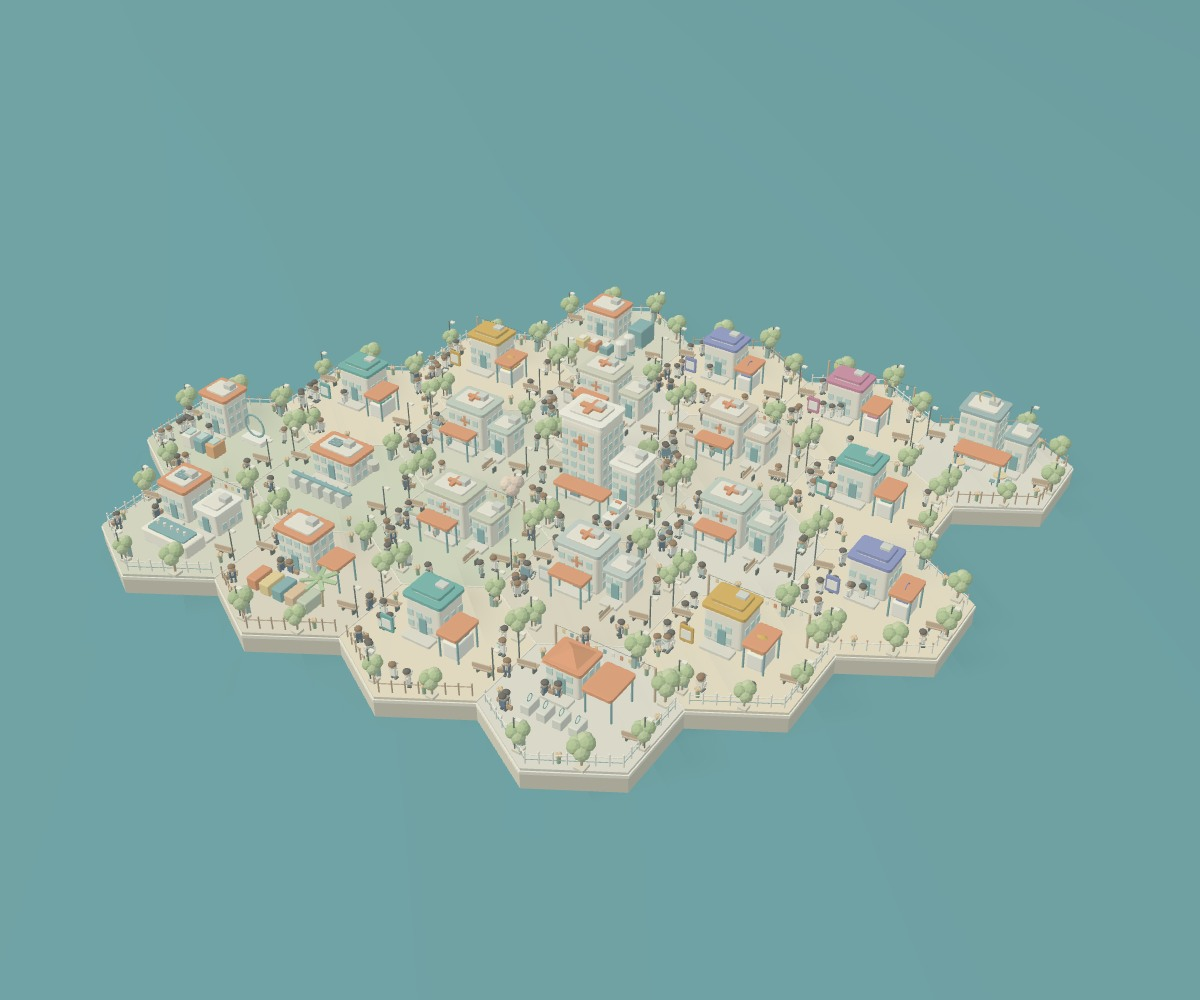
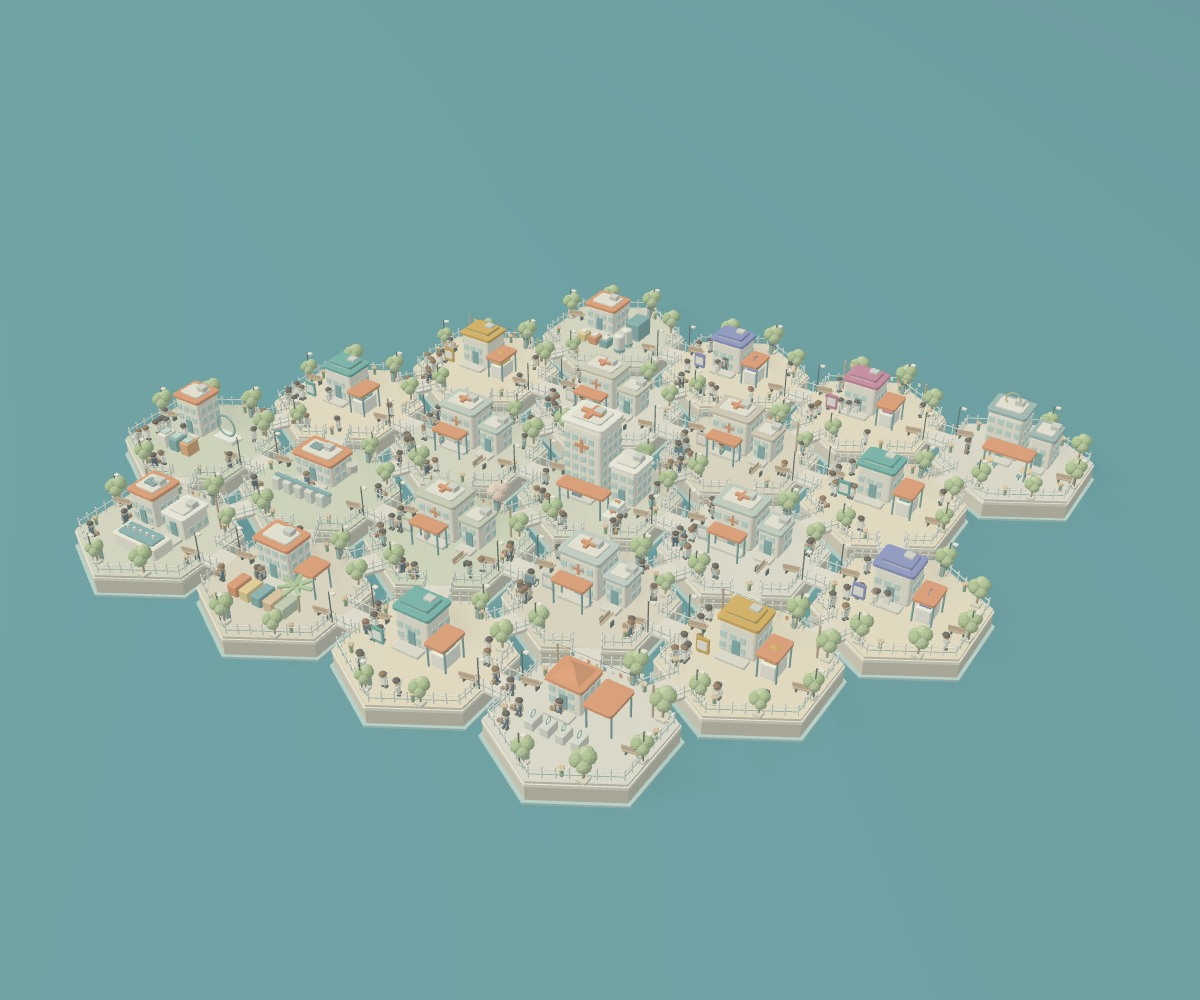
Separate honeycomb districts with narrow canals and short pedestrian crossings

Changed region(s): [[0.0617, 0.279, 0.925, 0.806]]

diff --git a/island.html b/island.html
@@ -114,9 +114,9 @@ function detailBody(t){if(t.type==='dept'){
  if(t.id==='hospital')return `<h3 class="results-heading">一次療程</h3><div id="journeyContent">${journeyHTML()}</div>${kmSettings()}`;
  const resources=C.supplies.filter(r=>r.tile===t.id);return (resources.length?`<h3 class="results-heading">技術需要的外部資源＊</h3>${resourceCards(resources)}`:'')+(['materials','components','equipment'].includes(t.id)?`<h3 class="results-heading">相關廠商與資料夾＊</h3><div data-vendors="${t.id}">${vendorHTML(t.id)}</div><p class="content-note">＊依關鍵字推定，非合作紀錄。</p>`:'')+kmSettings();
 }
-function showList(){window.medtechScene?.home();window.previewMarker?.select(-1);$('#personCard')?.remove();selected=null;window.syncPreviewRelations?.();resetHighlights();target.x=0;target.z=0;target.zoom=1;querySeq++;recordSeq++;$('#sceneTitle').textContent='沿著產品，走進醫材的風景。';$('#sideContent').innerHTML=`<h2>把需求，連起來。</h2><p class="side-lead">一座蜂窩醫材島：中央醫院、六個科別、八個技術分區與供應服務。點科別看產品，開啟「關聯」看對應。</p><div class="searchwrap"><input id="listSearch" type="search" placeholder="搜尋產品、技術、關鍵字…" aria-label="搜尋地塊" value="${esc(listQuery)}"></div><div class="filtertabs"><button data-filter="all">全部</button><button data-filter="dept">科別</button><button data-filter="tech">技術分區</button><button data-filter="supplier">供應服務</button><button data-filter="market">醫院與客戶</button></div><div class="tile-list" id="tileList"></div><div class="side-foot"><span class="live-dot"></span>商情資料來自歐噴資料庫。<br>蜂窩分區供內容導覽，相鄰不代表合作。產品與技術對應請看「關聯」；＊為推定或待確認。</div>`;renderList();$('#listSearch').addEventListener('input',e=>{listQuery=e.target.value;renderList()})}
+function showList(){window.medtechScene?.home();window.previewMarker?.select(-1);$('#personCard')?.remove();selected=null;window.syncPreviewRelations?.();resetHighlights();target.x=0;target.z=0;target.zoom=1;querySeq++;recordSeq++;$('#sceneTitle').textContent='沿著產品，走進醫材的風景。';$('#sideContent').innerHTML=`<h2>把需求，連起來。</h2><p class="side-lead">以蜂窩排列的醫材分區，地塊間保留窄水道與短橋。中央醫院、六個科別，連結技術與供應服務。點科別看產品，開啟「關聯」看對應。</p><div class="searchwrap"><input id="listSearch" type="search" placeholder="搜尋產品、技術、關鍵字…" aria-label="搜尋地塊" value="${esc(listQuery)}"></div><div class="filtertabs"><button data-filter="all">全部</button><button data-filter="dept">科別</button><button data-filter="tech">技術分區</button><button data-filter="supplier">供應服務</button><button data-filter="market">醫院與客戶</button></div><div class="tile-list" id="tileList"></div><div class="side-foot"><span class="live-dot"></span>商情資料來自歐噴資料庫。<br>蜂窩分區供內容導覽，相鄰不代表合作。產品與技術對應請看「關聯」；＊為推定或待確認。</div>`;renderList();$('#listSearch').addEventListener('input',e=>{listQuery=e.target.value;renderList()})}
 function renderList(){const q=listQuery.trim().toLowerCase(),hits=C.products.filter(p=>p.name.toLowerCase().includes(q)),list=tiles.filter(t=>(filter==='all'||t.type===filter)&&((t.name+t.en+t.tags.join('')).toLowerCase().includes(q)||hits.some(p=>p.dept===t.id)));$('#tileList').innerHTML=list.length?list.map(t=>`<button class="tile-item" data-tile="${t.i}"><span class="tile-icon" style="background:${t.color}">${t.icon}</span><span><span class="title">${t.name}</span><span class="subtitle">${t.en}</span>${q&&hits.some(p=>p.dept===t.id)?`<small class="search-match">含：${hits.filter(p=>p.dept===t.id).map(p=>esc(p.name)).join('、')}</small>`:''}</span><span class="arrow">↗</span></button>`).join(''):'<p class="empty">沒有相符的方向，請換個關鍵字。</p>';document.querySelectorAll('[data-filter]').forEach(b=>b.classList.toggle('active',b.dataset.filter===filter))}
-function choose(i){if(!tiles[i])return;resetHighlights();$('#personCard')?.remove();window.previewMarker?.select(i);selected=tiles[i];window.syncPreviewRelations?.();window.medtechScene?.focus(i);target.x=selected.x;target.z=selected.z;target.zoom=1.32;$('#sceneTitle').textContent=selected.name+' · '+selected.tags.join('／');$('#sideContent').innerHTML=`<button class="back" id="backList">← 回到探索清單</button><div class="detail-top"><div class="thumb-wrap"><img id="detailThumb" src="town-preview.jpg?v=8" alt="${selected.name}島嶼場景"><span>${selected.icon}</span></div><div><p class="detail-num">${String(i+1).padStart(2,'0')} / ${selected.en}</p><h2>${selected.name}</h2></div></div><p class="side-lead">${esc(selected.description)}</p><div class="tags">${selected.tags.map(t=>`<span>${esc(t)}</span>`).join('')}</div>${detailBody(selected)}<section class="public-query"><h3 class="results-heading">歐噴資料庫查詢</h3><form class="query-form" id="queryForm"><input id="query" aria-label="歐噴關鍵字" value="${selected.query}" required><button class="primary">搜尋 ↗</button></form>${authHTML()}<div id="queryResults"><p class="status">正在搜尋公開索引…</p></div><div id="records"></div><p class="source-note">來源：<a href="https://data.openfun.tw/" target="_blank" rel="noopener noreferrer">歐噴資料庫</a>。索引條目不等同採購需求，請核對原始來源。</p></section>`;$('#sidebar').scrollTop=0;document.body.classList.add('panel-open');runQuery(selected.query)}
+function choose(i){if(!tiles[i])return;resetHighlights();$('#personCard')?.remove();window.previewMarker?.select(i);selected=tiles[i];window.syncPreviewRelations?.();window.medtechScene?.focus(i);target.x=selected.x;target.z=selected.z;target.zoom=1.32;$('#sceneTitle').textContent=selected.name+' · '+selected.tags.join('／');$('#sideContent').innerHTML=`<button class="back" id="backList">← 回到探索清單</button><div class="detail-top"><div class="thumb-wrap"><img id="detailThumb" src="town-preview.jpg?v=9" alt="${selected.name}島嶼場景"><span>${selected.icon}</span></div><div><p class="detail-num">${String(i+1).padStart(2,'0')} / ${selected.en}</p><h2>${selected.name}</h2></div></div><p class="side-lead">${esc(selected.description)}</p><div class="tags">${selected.tags.map(t=>`<span>${esc(t)}</span>`).join('')}</div>${detailBody(selected)}<section class="public-query"><h3 class="results-heading">歐噴資料庫查詢</h3><form class="query-form" id="queryForm"><input id="query" aria-label="歐噴關鍵字" value="${selected.query}" required><button class="primary">搜尋 ↗</button></form>${authHTML()}<div id="queryResults"><p class="status">正在搜尋公開索引…</p></div><div id="records"></div><p class="source-note">來源：<a href="https://data.openfun.tw/" target="_blank" rel="noopener noreferrer">歐噴資料庫</a>。索引條目不等同採購需求，請核對原始來源。</p></section>`;$('#sidebar').scrollTop=0;document.body.classList.add('panel-open');runQuery(selected.query)}
 function goProduct(id){const p=C.products.find(p=>p.id===id);if(!p)return;choose(tileById(p.dept).i);const el=$('#product-'+id);if(!el)return;el.classList.add('product-highlight');el.scrollIntoView({block:'start',behavior:paused?'auto':'smooth'});setTimeout(()=>el.classList.remove('product-highlight'),2400)}
 function showTechMap(){querySeq++;recordSeq++;selected=null;$('#personCard')?.remove();window.medtechScene?.home();window.previewMarker?.select(-1);resetHighlights();const ordered=['surface','structure','forming','process'].flatMap(f=>C.techs.filter(t=>t.family===f));$('#sceneTitle').textContent='從產品應用，走向技術與共用能力。';$('#sideContent').innerHTML=`<button class="back" id="backList">← 回到探索清單</button><h2>技術地圖</h2><p class="side-lead">八座技術分區，十二項共用能力。點能力欄頭，查看共用能力的技術分區。</p><div class="matrix-scroll" tabindex="0" role="region" aria-label="技術與共用能力矩陣，可左右滑動"><table class="cap-matrix"><caption>技術 × 共用能力</caption><thead><tr><th scope="col">技術分區</th>${C.capabilities.map(c=>`<th scope="col"><button data-capability="${c.id}" aria-pressed="false">${esc(c.name)}</button></th>`).join('')}</tr></thead><tbody>${ordered.map((t,i)=>{const f=C.families[t.family],newFamily=i===0||ordered[i-1].family!==t.family;return `${newFamily?`<tr class="family-row"><th colspan="${C.capabilities.length+1}" style="color:${f.color}">${f.name}</th></tr>`:''}<tr><th scope="row"><button data-tech="${t.id}">${esc(tileById(t.id).name)}</button></th>${C.capabilities.map(c=>`<td class="${c.techs.includes(t.id)?'has-cap':''}">${c.techs.includes(t.id)?`<span style="background:${f.color}" role="img" aria-label="使用${esc(c.name)}"></span>`:'<span class="sr-only">未共用</span>'}</td>`).join('')}</tr>`}).join('')}</tbody></table></div><p class="content-note">＊分區為本站整理。圓點表示能力項目有對應關鍵字，不代表完成度。</p><p id="capStatus" class="status" role="status">選擇能力可標亮島名。</p><h3 class="results-heading">最常共用的能力</h3><div class="common-capabilities">${[...C.capabilities].sort((a,b)=>b.techs.length-a.techs.length).slice(0,5).map(c=>`<button class="person-item" data-capability="${c.id}"><strong>${esc(c.name)}</strong><small>共用 ×${c.techs.length}</small></button>`).join('')}</div>${kmSettings()}<button class="primary copy-state" id="copyState">複製目前狀態</button><p class="content-note">複製技術名稱、紀錄數與紀錄標題；未連線時不填入紀錄數。</p><textarea id="copyFallback" class="copy-fallback" aria-label="目前狀態文字" hidden readonly></textarea>`;$('#sidebar').scrollTop=0;document.body.classList.add('panel-open')}
 
@@ -155,11 +155,11 @@ window.showPersonInfo=p=>{let card=$('#personCard');if(!card){card=document.crea
 window.updatePersonInfo=p=>{if($('#personCard')?.dataset.person===String(p.id)){$('#personTask').textContent=p.task;$('#personCard > small').textContent=p.island}};
 document.addEventListener('click',e=>{const b=e.target.closest('[data-person]');if(b)window.medtechScene?.selectPerson(+b.dataset.person,b.dataset.personView);if(e.target.id==='closePerson'){$('#personCard')?.remove();window.medtechScene?.clearPerson()}});
 window.syncPreviewRelations=()=>{const svg=$('#previewRelations'),anchors=window.previewRelationAnchors;if(!svg||!anchors)return;const related=window.MEDTECH_RELATIONS.filter(r=>selected?(r.a===selected.i||r.b===selected.i):r.kind==='application');svg.style.display=showLinks?'':'none';svg.innerHTML=related.map(r=>{const a=anchors[r.a],b=anchors[r.b],lift=Math.min(95,25+Math.hypot(a.x-b.x,a.y-b.y)*.15);return `<path d="M ${a.x},${a.y} Q ${(a.x+b.x)/2},${(a.y+b.y)/2-lift} ${b.x},${b.y}" fill="none" stroke="${r.inferred?'#b76d44':'#316f77'}" stroke-width="2.3" ${r.inferred?'stroke-dasharray="6 5"':''}/>`}).join('')};
-window.showIslandPreview=note=>{window.previewLabelCleanup?.();const stage=$('#island');stage.innerHTML='<img class="scene-fallback" src="town-preview.jpg?v=8" alt="醫院科別、技術與供應服務蜂窩分區預覽"><p class="webgl-note"></p>';stage.querySelector('.webgl-note').textContent=note;const relations=document.createElementNS('http://www.w3.org/2000/svg','svg');relations.id='previewRelations';relations.classList.add('relation-overlay');stage.appendChild(relations);const marker=window.MedtechLabels.create(stage,tiles);window.previewMarker=marker;applyLabelState();marker.root.style.display=showLabels?'':'none';const image=stage.querySelector('img');const update=()=>{const r=stage.getBoundingClientRect(),iw=1200,ih=1000,k=Math.min(r.width/iw,r.height/ih),ox=(r.width-iw*k)/2,oy=(r.height-ih*k)/2;const anchors=window.MEDTECH_PREVIEW_POINTS.map(([u,v])=>({x:ox+u*iw*k,y:oy+v*ih*k}));marker.update(anchors,r.width,r.height);window.previewRelationAnchors=anchors;relations.setAttribute('viewBox',`0 0 ${r.width} ${r.height}`);window.syncPreviewRelations?.()};image.onload=update;const observer=new ResizeObserver(update);observer.observe(stage);update();window.previewLabelCleanup=()=>{observer.disconnect();marker.destroy();window.previewMarker=null}};
-window.MEDTECH_PREVIEW_POINTS=[[0.5,0.485936],[0.611241,0.536489],[0.49234,0.581802],[0.382338,0.527284],[0.398119,0.439637],[0.506523,0.404294],[0.609439,0.447478],[0.281923,0.477519],[0.512145,0.333929],[0.483219,0.695962],[0.255489,0.571861],[0.189896,0.43191],[0.157066,0.518225],[0.823926,0.455437],[0.721465,0.494484],[0.711487,0.411617],[0.607895,0.371245],[0.733195,0.59191],[0.613374,0.641786],[0.363695,0.630828],[0.304463,0.397076],[0.41165,0.364485]];
+window.showIslandPreview=note=>{window.previewLabelCleanup?.();const stage=$('#island');stage.innerHTML='<img class="scene-fallback" src="town-preview.jpg?v=9" alt="醫院科別、技術與供應服務蜂窩分區預覽"><p class="webgl-note"></p>';stage.querySelector('.webgl-note').textContent=note;const relations=document.createElementNS('http://www.w3.org/2000/svg','svg');relations.id='previewRelations';relations.classList.add('relation-overlay');stage.appendChild(relations);const marker=window.MedtechLabels.create(stage,tiles);window.previewMarker=marker;applyLabelState();marker.root.style.display=showLabels?'':'none';const image=stage.querySelector('img');const update=()=>{const r=stage.getBoundingClientRect(),iw=1200,ih=1000,k=Math.min(r.width/iw,r.height/ih),ox=(r.width-iw*k)/2,oy=(r.height-ih*k)/2;const anchors=window.MEDTECH_PREVIEW_POINTS.map(([u,v])=>({x:ox+u*iw*k,y:oy+v*ih*k}));marker.update(anchors,r.width,r.height);window.previewRelationAnchors=anchors;relations.setAttribute('viewBox',`0 0 ${r.width} ${r.height}`);window.syncPreviewRelations?.()};image.onload=update;const observer=new ResizeObserver(update);observer.observe(stage);update();window.previewLabelCleanup=()=>{observer.disconnect();marker.destroy();window.previewMarker=null}};
+window.MEDTECH_PREVIEW_POINTS=[[0.5,0.486652],[0.620302,0.539519],[0.492878,0.588558],[0.373823,0.531103],[0.390488,0.438528],[0.505985,0.401012],[0.616523,0.445602],[0.265869,0.479006],[0.511086,0.328032],[0.484261,0.71185],[0.236741,0.579397],[0.167532,0.431549],[0.131001,0.522813],[0.845699,0.452775],[0.737516,0.494409],[0.724459,0.407577],[0.613326,0.366147],[0.753073,0.597865],[0.624838,0.652241],[0.353848,0.642064],[0.290378,0.394534],[0.404604,0.360116]];
 showList();
 setTimeout(()=>{if(!window.medtechScene&&!$('#island').querySelector('.scene-fallback'))window.showIslandPreview('3D 尚未載入，先顯示場景預覽。島名仍可點選查詢。')},15000);
 })();
 </script>
-<script type="module" src="island-scene.js?v=8"></script>
+<script type="module" src="island-scene.js?v=9"></script>
 </body></html>

diff --git a/island-model.js b/island-model.js
@@ -9,7 +9,7 @@ export function buildMedicalTown(T,RoundedBoxGeometry,definitions){
  const cyl=(x,y,z,r,h,c=C.white)=>p('cyl',x,y,z,r*2,h,r*2,c);
  const ball=(x,y,z,r,c=C.green,s=[1,1,1])=>p('ball',x,y,z,r*2*s[0],r*2*s[1],r*2*s[2],c);
  function beam(a,b,width,c,kind='cyl'){const A=new T.Vector3(...a),B=new T.Vector3(...b),v=B.clone().sub(A),q=new T.Quaternion().setFromUnitVectors(new T.Vector3(0,1,0),v.clone().normalize()),e=new T.Euler().setFromQuaternion(q);parts.push({kind,pos:A.add(B).multiplyScalar(.5).toArray(),scale:[width,v.length(),width],color:c,rot:[e.x,e.y,e.z],owner})}
- const TOP=.66,R=2.18,SPACE=1.0;
+ const TOP=.66,R=2.18,SPACE=1.14;
  definitions.forEach((d,i)=>tileCenters.push({i,x:Math.sqrt(3)*R*SPACE*(d.q+d.r/2),z:1.5*R*SPACE*d.r}));
  const cells=new Map(definitions.map((d,i)=>[d.q+','+d.r,i])),edgeSteps=[[0,1],[-1,1],[-1,0],[0,-1],[1,-1],[1,0]];
  function neighbor(i,edge){const d=definitions[i],step=edgeSteps[edge];return cells.get((d.q+step[0])+','+(d.r+step[1]))}
@@ -59,9 +59,9 @@ export function buildMedicalTown(T,RoundedBoxGeometry,definitions){
  function clinic(x,z,d){const roof=new T.Color(d.color).multiplyScalar(.80).getHex();building(x-.30,z-.35,1.12,1.10,.90,roof,true);building(x+.65,z-.40,.60,.70,.72,roof,true);cross(x-.30,TOP+1.29,z-.35,.39);box(x-.30,TOP+.80,z+.115,.30,.065,.035,C.coral);box(x-.30,TOP+.80,z+.115,.065,.30,.035,C.coral);canopy(x-.25,z+.48,.95,.44);bench(x+.85,z+.65,Math.PI/2);box(x-.90,TOP+.45,z+.52,.33,.42,.045,roof);box(x-.90,TOP+.45,z+.55,.24,.24,.015,C.white)}
  function techLab(x,z,d){const color={surface:0x3f8f8a,structure:0x5a67b8,forming:0xc98a2e,process:0xb2577f}[d.family];building(x-.34,z-.40,.98,.92,.82,color,true);box(x-.34,TOP+1.08,z-.40,.80,.09,.60,color);canopy(x+.63,z+.03,.57,.85);box(x+.63,TOP+.22,z+.03,.40,.42,.62,C.white);box(x+.63,TOP+.46,z+.03,.30,.055,.48,color);box(x-.94,TOP+.43,z+.52,.34,.44,.05,color);box(x-.94,TOP+.43,z+.555,.25,.25,.02,C.white);if(d.family==='surface'){for(let j=0;j<3;j++){cyl(x+.5+j*.13,TOP+.53,z+.04,.035,.16,C.glass)}}else if(d.family==='structure'){p('ring',x+.63,TOP+.65,z+.03,.29,.29,.20,color,Math.PI/2)}else if(d.family==='forming'){ball(x+.63,TOP+.62,z+.03,.15,color,[1.2,1,.7])}else{beam([x+.63,TOP+.63,z-.1],[x+.63,TOP+.48,z+.16],.028,color)}}
  function courtyard(t){const {x,z,i}=t,d=definitions[i];owner=i;
- p('hex',x,.32,z,R*2,.42,R*2,0xc3bda6);p('hex',x,.56,z,R*2.015,.08,R*2.015,C.cream);p('hex',x,.63,z,R*1.98,.065,R*1.98,d.type==='tech'?0xe7d7b6:[0xcacdb4,0xd8d5c8,0xd6cbb2,0xbec9a8][i%4]);
+ p('hex',x,.10,z,R*2.09,.06,R*2.09,0x94c6c8);p('hex',x,.32,z,R*2,.42,R*2,0xc3bda6);p('hex',x,.56,z,R*2.015,.08,R*2.015,C.cream);p('hex',x,.63,z,R*1.98,.065,R*1.98,d.type==='tech'?0xe7d7b6:[0xcacdb4,0xd8d5c8,0xd6cbb2,0xbec9a8][i%4]);
  for(let ix=-8;ix<=8;ix++)for(let iz=-9;iz<=9;iz++){const px=ix*.22,pz=iz*.22;if(Math.abs(px)>Math.sqrt(3)*R*.46||Math.abs(pz)>R*.92-Math.abs(px)/Math.sqrt(3))continue;if(Math.hypot(px,pz)<1.25&&i%4!==0)continue;p('box',x+px,TOP-.014,z+pz,.207,.025,.207,(ix+iz+i)%3?0xe1ddd0:0xd8d6c9)}
- for(let edge=0;edge<6;edge++){const other=neighbor(i,edge);if(other!==undefined){if(other>i){const a=point(x,z,R,edge),b=point(x,z,R,edge+1);beam([a[0],TOP+.006,a[1]],[b[0],TOP+.006,b[1]],.032,0xf5ecdb)}continue}const a=point(x,z,R*.91,edge),b=point(x,z,R*.91,edge+1);fence(...a,...b,i%3);}
+ for(let edge=0;edge<6;edge++){const a=point(x,z,R*.93,edge),b=point(x,z,R*.93,edge+1),other=neighbor(i,edge);if(other===undefined){fence(...a,...b,0);continue}const length=Math.hypot(b[0]-a[0],b[1]-a[1]),dx=(b[0]-a[0])/length,dz=(b[1]-a[1])/length,mx=(a[0]+b[0])/2,mz=(a[1]+b[1])/2;fence(a[0],a[1],mx-dx*.39,mz-dz*.39,0);fence(mx+dx*.39,mz+dz*.39,b[0],b[1],0);}
  for(let j=0;j<8;j++){const a=j/8*Math.PI*2+.18,rr=1.78;if(j===3||edgeSteps.some((_,edge)=>{if(neighbor(i,edge)===undefined)return false;const direction=(edge+1)*Math.PI/3;return Math.abs(Math.atan2(Math.sin(a-direction),Math.cos(a-direction)))<.24}))continue;tree(x+Math.cos(a)*rr,z+Math.sin(a)*rr,.52+rand()*.18,i===3&&j%3===0)}
  for(let j=0;j<4;j++){const a=j/4*Math.PI*2+.2;lamp(x+Math.cos(a)*1.85,z+Math.sin(a)*1.85);if(j%2===0)bench(x+Math.cos(a)*1.55,z+Math.sin(a)*1.55,a);else bin(x+Math.cos(a)*1.66,z+Math.sin(a)*1.66)}
  for(let j=0;j<5;j++){const a=j*2.4+i;flower(x+Math.cos(a)*1.70,z+Math.sin(a)*1.70)}
@@ -91,13 +91,13 @@ export function buildMedicalTown(T,RoundedBoxGeometry,definitions){
  if(i%3===0){cyl(X-1.25,TOP+.48,Z-.95,.028,.95,C.wood);cyl(X+1.25,TOP+.48,Z-.95,.028,.95,C.wood);bunting([X-1.25,TOP+.95,Z-.95],[X+1.25,TOP+.95,Z-.95]);}
  }
  tileCenters.forEach(courtyard);
- // Shared edges are walking passages; they do not encode content relationships.
+ // Short canal crossings are walking passages; they do not encode content relationships.
  const routes=[];owner=-1;
- tileCenters.forEach(a=>edgeSteps.forEach((_,edge)=>{const other=neighbor(a.i,edge);if(other===undefined||other<=a.i)return;const b=tileCenters[other],len=Math.hypot(b.x-a.x,b.z-a.z),dx=(b.x-a.x)/len,dz=(b.z-a.z)/len,ry=Math.atan2(dx,dz);routes.push({a:a.i,b:other,kind:'walkway'});box((a.x+b.x)/2,TOP-.015,(a.z+b.z)/2,.56,.03,len-2.7,0xe0ddd0,ry)}));
+ tileCenters.forEach(a=>edgeSteps.forEach((_,edge)=>{const other=neighbor(a.i,edge);if(other===undefined||other<=a.i)return;const b=tileCenters[other],len=Math.hypot(b.x-a.x,b.z-a.z),dx=(b.x-a.x)/len,dz=(b.z-a.z)/len,ry=Math.atan2(dx,dz),start=[a.x+dx*1.68,a.z+dz*1.68],end=[b.x-dx*1.68,b.z-dz*1.68];routes.push({a:a.i,b:other,kind:'walkway'});box((a.x+b.x)/2,TOP-.05,(a.z+b.z)/2,.70,.10,len-3.36,0xe3ddd0,ry);for(const side of [-1,1]){const nx=dz*.34*side,nz=-dx*.34*side;fence(start[0]+nx,start[1]+nz,end[0]+nx,end[1]+nz,0)}}));
 
  G.glass=G.round;const batches=new Map();for(const a of parts){const key=a.color===C.glass?'glass':a.kind;let b=batches.get(key);if(!b)batches.set(key,b=[]);b.push(a)}
  const staticMeshes=[];for(const [kind,items]of batches){const material=new T.MeshStandardMaterial({roughness:kind==='ball'?.66:.82,metalness:0,vertexColors:false});const mesh=new T.InstancedMesh(G[kind],material,items.length);mesh.castShadow=true;mesh.receiveShadow=true;mesh.userData.owners=items.map(p=>p.owner);const dummy=new T.Object3D();items.forEach((a,i)=>{dummy.position.set(...a.pos);dummy.rotation.set(...a.rot);dummy.scale.set(...a.scale);dummy.updateMatrix();mesh.setMatrixAt(i,dummy.matrix);mesh.setColorAt(i,new T.Color(a.color))});mesh.instanceMatrix.needsUpdate=true;mesh.instanceColor.needsUpdate=true;mesh.computeBoundingSphere();root.add(mesh);staticMeshes.push({mesh,items,kind})}
- // Connect building doors, their forecourts, sidewalks and the shared-edge passages.
+ // Connect building doors, their forecourts, sidewalks and the adjacent-cell crossings.
  const nodes=[],adj=[],rings=[],doorIds=[],stations=[],pathCache=new Map();
  function node(x,z,tile,building=-1){const id=nodes.length;nodes.push({x,z,tile,building});adj.push([]);return id}
  function link(a,b){const length=Math.hypot(nodes[a].x-nodes[b].x,nodes[a].z-nodes[b].z);adj[a].push([b,length]);adj[b].push([a,length])}

diff --git a/island-scene.js b/island-scene.js
@@ -1,7 +1,7 @@
 import * as T from 'three';
 import {OrbitControls} from 'three/addons/controls/OrbitControls.js';
 import {RoundedBoxGeometry} from './rounded-box.js';
-import {buildMedicalTown} from './island-model.js?v=8';
+import {buildMedicalTown} from './island-model.js?v=9';
 
 const stage=document.querySelector('#island'),area=document.querySelector('#scene');
 let renderer;
